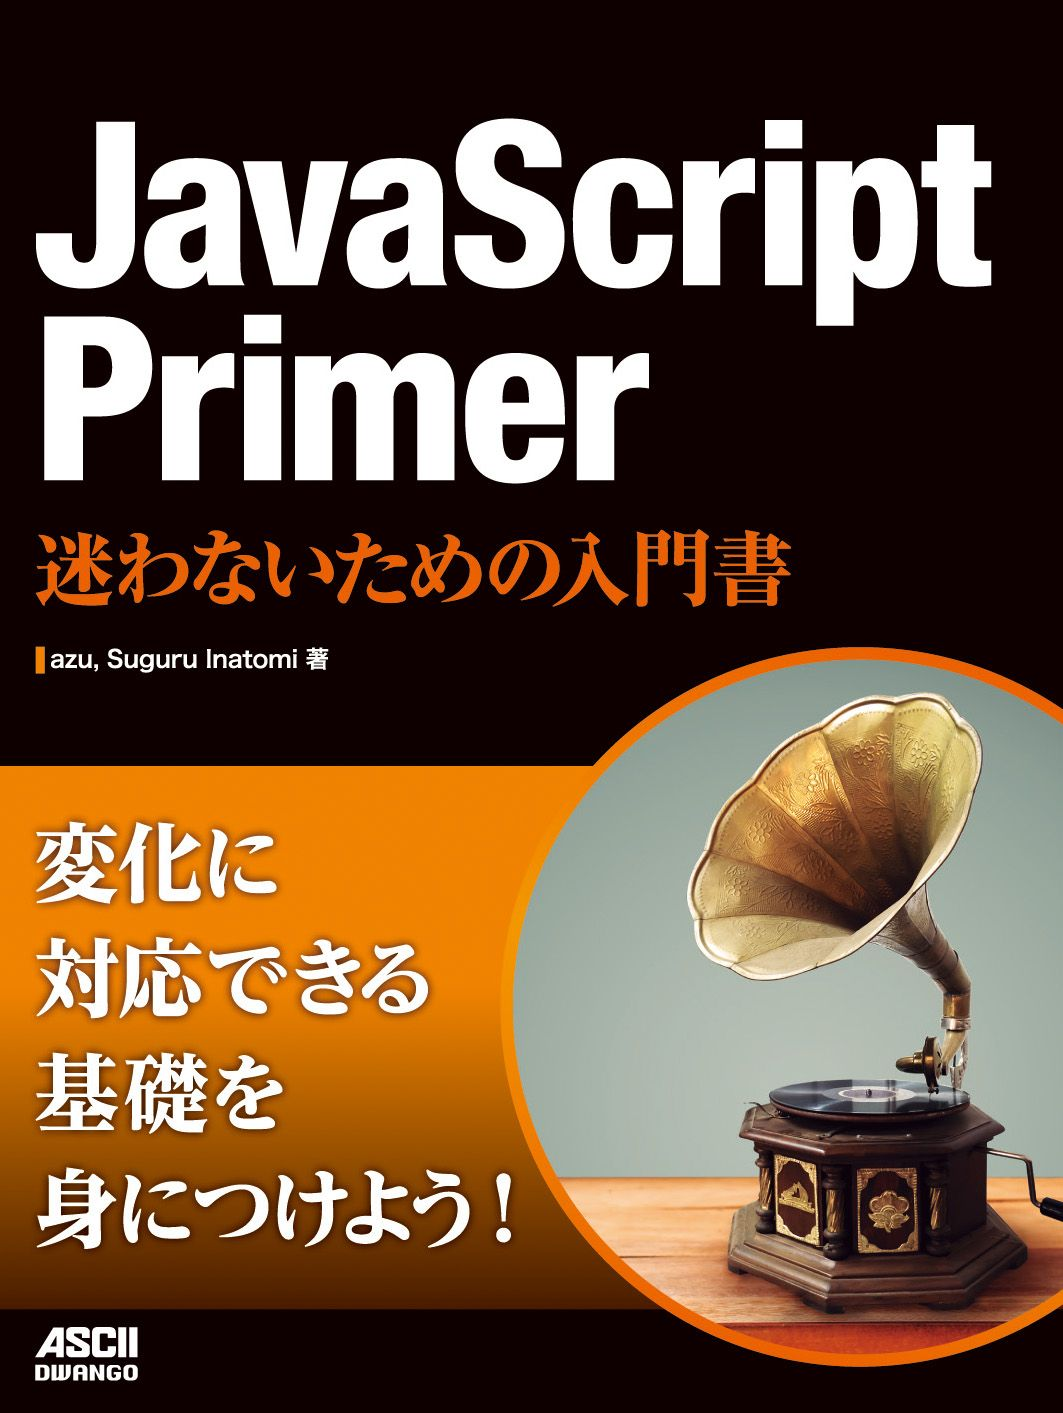
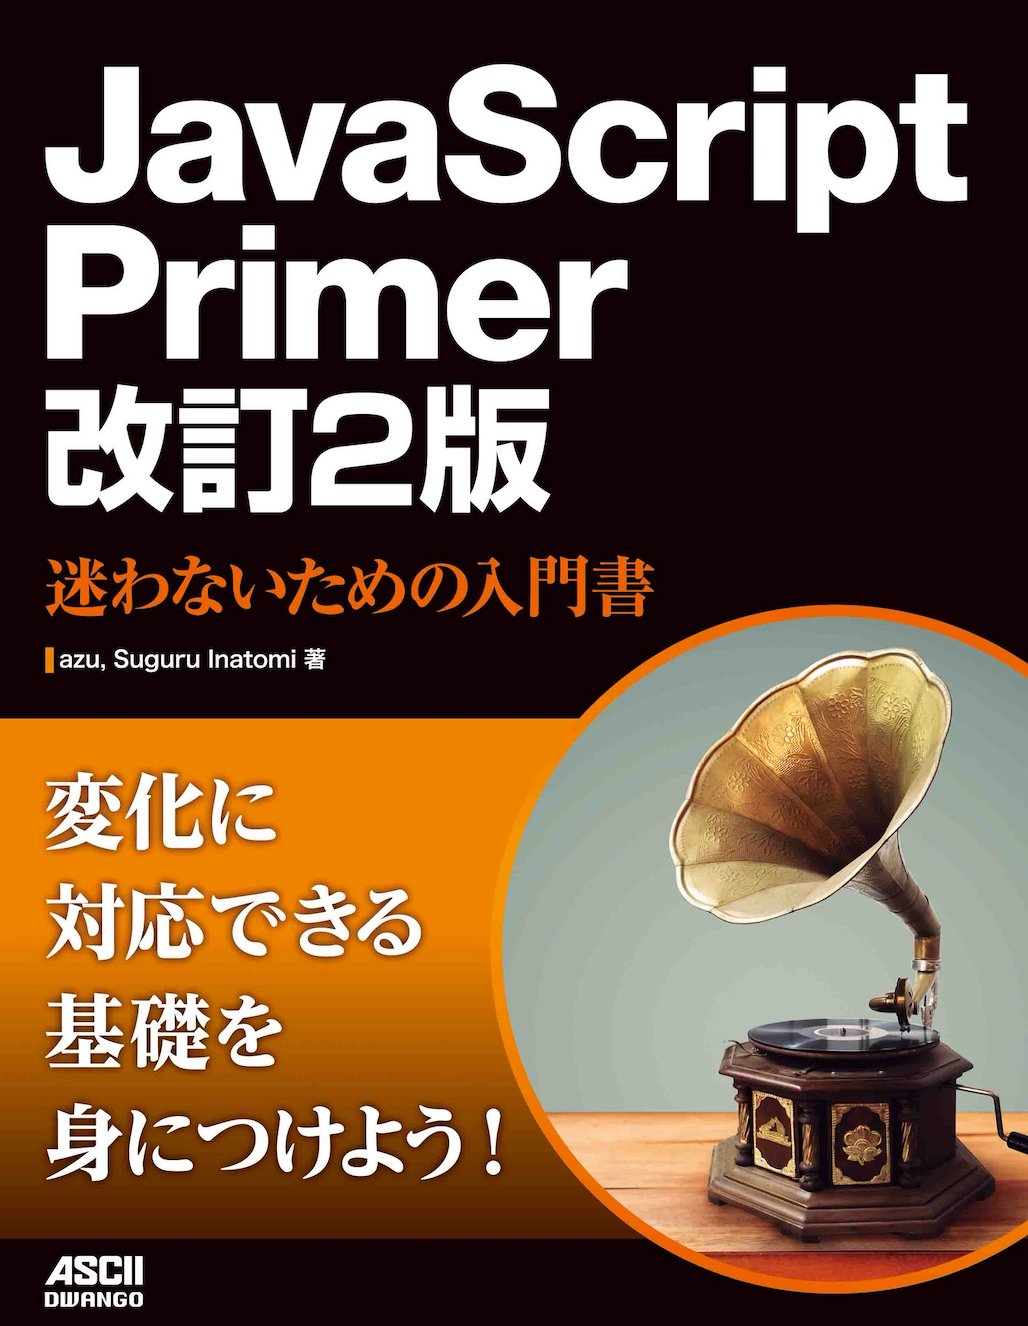
feat: Amazonを改訂2版のリンクに変更、書影を変更

diff --git a/source/landing/index.html b/source/landing/index.html
@@ -51,8 +51,8 @@
                 書籍版は次のサイトから購入できます。
             </p>
             <ul>
-                <li><a href="https://www.amazon.co.jp/dp/4048930737/">Amazon</a></li>
-                <li><a href="https://tatsu-zine.com/books/javascript-primer">達人出版会（電子書籍）</a></li>
+                <li><a href="https://www.amazon.co.jp/dp/4048931105/">Amazon</a></li>
+                <li><a href="https://tatsu-zine.com/books/javascript-primer">達人出版会（電子書籍版、こちらはまだ初版のものです）</a></li>
             </ul>
             <p class="mg-lg">
                 詳細については「<a href="https://jsprimer.net/intro/#diff-with-print-version">ウェブ版と書籍版の違い</a>」を参照してください。
@@ -83,7 +83,7 @@
         </div>
         <div class="col-sm-4 hidden-xs">
             <img src="./landing/img/cover-optimized.jpg" alt="Cover Image" class="img-responsive"/>
-            <a href="https://www.amazon.co.jp/dp/4048930737/" class="btn btn-primary btn-lg btn-amazon" role="button">Amazon</a>
+            <a href="https://www.amazon.co.jp/dp/4048931105/" class="btn btn-primary btn-lg btn-amazon" role="button">Amazon</a>
             <a href="https://tatsu-zine.com/books/javascript-primer" class="btn btn-primary btn-lg btn-tatsujin" role="button">達人出版会</a>
         </div>
     </div>

diff --git a/source/_layouts/website/header.html b/source/_layouts/website/header.html
@@ -385,8 +385,8 @@
     </div>
     <div class="header-right">
         <!-- Icon: https://www.iconfinder.com/iconsets/circle-payment -->
-        <a class="amazon-link" title="Amazon: JavaScript Primer 迷わないための入門書"
-           href="https://www.amazon.co.jp/dp/4048930737/" target="_blank"><img
+        <a class="amazon-link" title="Amazon: JavaScript Primer 改訂2版 迷わないための入門書"
+           href="https://www.amazon.co.jp/dp/4048931105/" target="_blank"><img
                 width="22"
                 height="22"
                 style="margin: 1px;"

diff --git a/source/intro/README.md b/source/intro/README.md
@@ -99,8 +99,8 @@ ECMAScript 2015と呼ばれる仕様の大きな更新が行われた際に、Ja
 この書籍は[アスキードワンゴ](https://asciidwango.jp/)から書籍として出版されています。
 書籍版は、次のページから購入できます。
 
-- [JavaScript Primer 迷わないための入門書 | azu, Suguru Inatomi |本 | 通販 | Amazon](https://www.amazon.co.jp/dp/4048930737/)
-- [JavaScript Primer 迷わないための入門書【委託】 - 達人出版会](https://tatsu-zine.com/books/javascript-primer)
+- 物理書籍とKindle: [JavaScript Primer 改訂2版 迷わないための入門書 | azu, Suguru Inatomi |本 | 通販 | Amazon](https://www.amazon.co.jp/dp/4048931105/)
+- PDFとepub: [JavaScript Primer 迷わないための入門書【委託】 - 達人出版会](https://tatsu-zine.com/books/javascript-primer) (2023-06-03時点では初版のままです)
 
 ## ウェブ版と書籍版の違い {#diff-with-print-version}
 
@@ -130,7 +130,7 @@ GitHub Sponsorsで著者を支援できます。
 
 また、書籍版へのレビューを書くことも支援に繋がります。
 
-- [JavaScript Primer 迷わないための入門書 | azu, Suguru Inatomi |本 | 通販 | Amazon](https://www.amazon.co.jp/dp/4048930737/)
+- [JavaScript Primer 改訂2版 迷わないための入門書 | azu, Suguru Inatomi |本 | 通販 | Amazon](https://www.amazon.co.jp/dp/4048931105/)
 
 GitHubのDiscussions（掲示板）の他の人の質問に答えたり、JSPrimerを読んだ感想を書くことも支援になります。
 

diff --git a/README.md b/README.md
@@ -11,8 +11,8 @@
 
 書籍版は次のページから購入できます。
 
-- 物理書籍とKindle: [JavaScript Primer 迷わないための入門書 | azu, Suguru Inatomi |本 | 通販 | Amazon](https://www.amazon.co.jp/dp/4048930737/)
-- PDFとepub: [JavaScript Primer 迷わないための入門書【委託】 - 達人出版会](https://tatsu-zine.com/books/javascript-primer)
+- 物理書籍とKindle: [JavaScript Primer 改訂2版 迷わないための入門書 | azu, Suguru Inatomi |本 | 通販 | Amazon](https://www.amazon.co.jp/dp/4048931105/)
+- PDFとepub: [JavaScript Primer 迷わないための入門書【委託】 - 達人出版会](https://tatsu-zine.com/books/javascript-primer) (2023-06-03時点では初版のままです)
 
 ウェブ版と書籍版の内容は基本的には同じです。
 詳細は[ウェブ版と書籍版の違い](https://jsprimer.net/intro/#diff-with-print-version)を参照してください。
@@ -30,7 +30,7 @@ GitHub Sponsorsで著者を支援できます。
 
 また、書籍版へのレビューを書くことも支援に繋がります。
 
-- [JavaScript Primer 迷わないための入門書 | azu, Suguru Inatomi |本 | 通販 | Amazon](https://www.amazon.co.jp/dp/4048930737/)
+- [JavaScript Primer 改訂2版 迷わないための入門書 | azu, Suguru Inatomi |本 | 通販 | Amazon](https://www.amazon.co.jp/dp/4048931105/)
 
 GitHubのDiscussions（掲示板）の他の人の質問に答えたり、JSPrimerを読んだ感想を書くことも支援になります。
 
